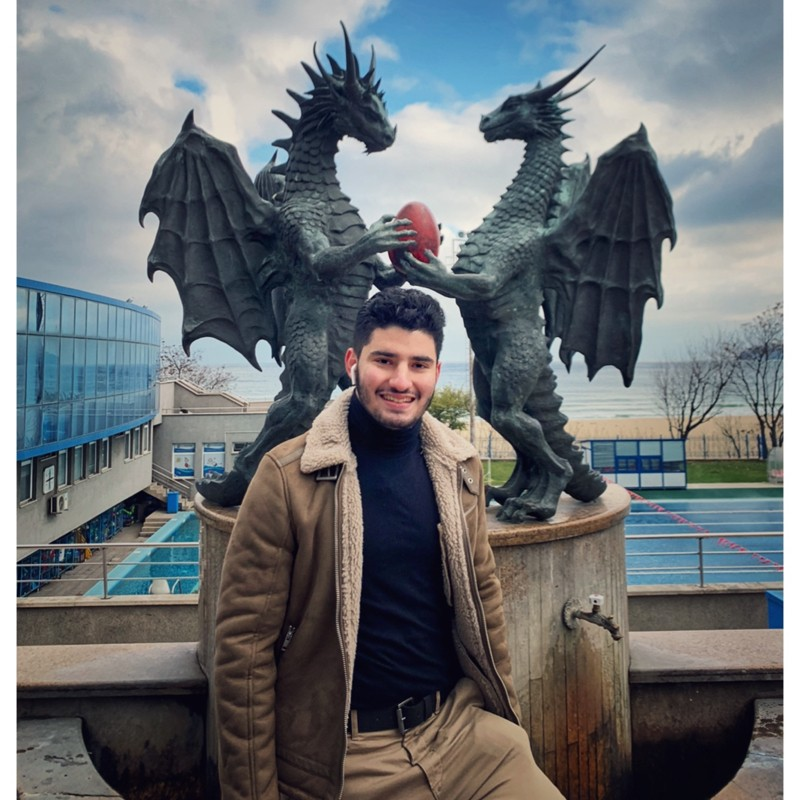
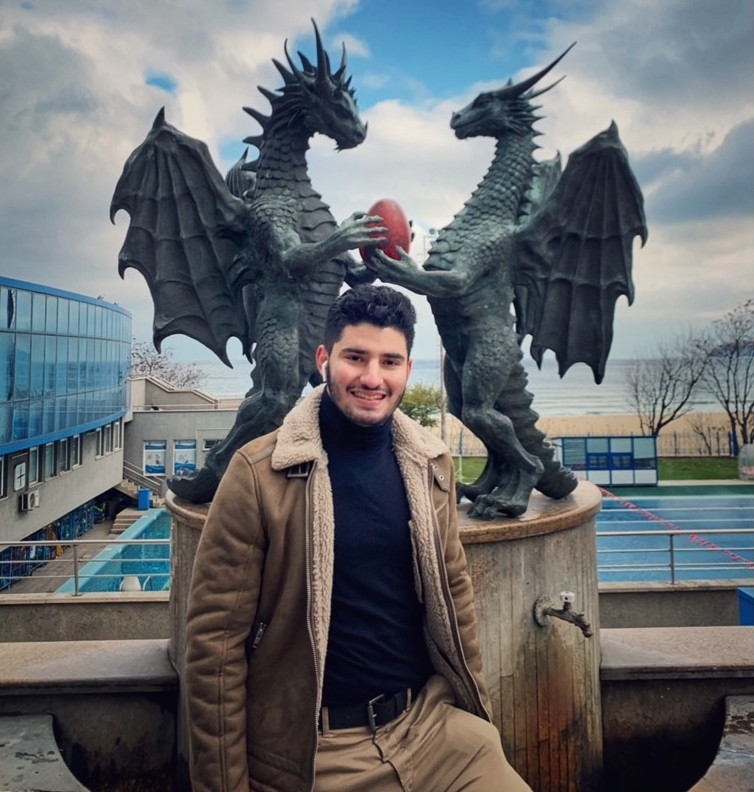
added new image of me, fixed your image to remove the white borders, resized the blitcore_diagram, made some changes in the how blitcore works so that the shapes of each are fixed and not different and centered the title and description in the team section. Not very sure if I messed anything up for 

diff --git a/src/partials/Team.jsx b/src/partials/Team.jsx
@@ -10,13 +10,15 @@ export default function Team() {
 
     <span class="absolute bottom-0 left-0"> </span>
 
-    <div class="relative px-16 mx-auto max-w-7xl">
-        <p class="font-medium tracking-wide text-blue-500 uppercase">OUR TEAM</p>
-        <h2 class="text-blitblue-400 relative max-w-lg mt-5 mb-10 text-xl font-semibold leading-tight lg:text-xl">An incredible team of amazing individuals</h2>
-        <div class="grid w-full grid-cols-1 gap-10 sm:grid-cols-3 lg:grid-cols-3">
+    <div class="relative text-center px-16 mx-auto max-w-7xl">
+        <div className="max-w-1xl mx-auto text-center pb-12 md:pb-16">
+            <h1 class="text-blitblue-400 h2 mt-6 mb-4">OUR TEAM</h1>
+            <p class="font-medium tracking-wide text-white">An incredible team of amazing individuals</p>
+        </div>
+        <div class="grid w-full grid-cols-1 gap-20 sm:grid-cols-3 lg:grid-cols-3">
             <div class="flex flex-col items-center justify-center col-span-1">
-                <div class="relative p-5">
-                    <div class="absolute z-10 w-full h-full -mt-5 -ml-5 rounded-full rounded-tr-none bg-blitblue-400"></div>
+                <div class="relative p-3">
+                    <div class="absolute z-10 w-full h-full -mt-3 -ml-3 rounded-full rounded-tr-none bg-blitblue-400"></div>
                     <img class="relative z-20 w-full rounded-full" src={abass}/>
                 </div>
                 <div class="mt-3 space-y-2 text-center">
@@ -36,8 +38,8 @@ export default function Team() {
             </div>
 
             <div class="flex flex-col items-center justify-center col-span-1">
-                <div class="relative p-5">
-                    <div class="absolute z-10 w-full h-full -mt-5 -ml-5 rounded-full rounded-tr-none bg-blitblue-400"></div>
+                <div class="relative p-3">
+                    <div class="absolute z-10 w-full h-full -mt-3 -ml-3 rounded-full rounded-tr-none bg-blitblue-400"></div>
                     <img class="relative z-20 w-full rounded-full" src={tamer}/>
                 </div>
                 <div class="mt-3 space-y-2 text-center">
@@ -57,8 +59,8 @@ export default function Team() {
             </div>
 
             <div class="flex flex-col items-center justify-center col-span-1">
-                <div class="relative p-5">
-                    <div class="absolute z-10 w-full h-full -mt-5 -ml-5 rounded-full rounded-tr-none bg-blitblue-400"></div>
+                <div class="relative p-3">
+                    <div class="absolute z-10 w-full h-full -mt-3 -ml-3 rounded-full rounded-tr-none bg-blitblue-400"></div>
                     <img class="relative z-20 w-full rounded-full" src="https://cdn.devdojo.com/images/june2021/avt-09.jpg"/>
                 </div>
                 <div class="mt-3 space-y-2 text-center">

diff --git a/src/partials/HeroHome.jsx b/src/partials/HeroHome.jsx
@@ -12,7 +12,7 @@ function HeroHome() {
 
 
       <div className="flex items-center justify-center sm:relative" aria-hidden="true">
-        <img className="invisible sm:visible absolute top-1 w-max" src={blitcoreDiagram} /> 
+        <img className="invisible sm:visible absolute top-12 w-max" src={blitcoreDiagram} /> 
       </div>
 
       <div className="max-w-6xl mx-auto px-4 sm:px-6 ">
@@ -22,7 +22,7 @@ function HeroHome() {
 
           {/* Section header */}
           <div className="text-center pb-12 md:pb-16">
-            <h1 className="text-Bxl lg:text-6xl font-extrabold leading-tighter tracking-tighter lg:text-5xl mb-4 text-center" data-aos="zoom-y-out"><span className="bg-clip-text text-transparent bg-gradient-to-r from-blitblue-500 to-blitblue-400">BlitCore</span></h1>
+            <h1 className="text-Bxl lg:text-5xl font-extrabold leading-tighter tracking-tighter lg:text-5xl mb-4 text-center" data-aos="zoom-y-out"><span className="bg-clip-text text-transparent bg-gradient-to-r from-blitblue-500 to-blitblue-400">BlitCore</span></h1>
             <div className="max-w-3xl mx-auto">
               <p className="text-base text-white mb-8" data-aos="zoom-y-out" data-aos-delay="150">We design, build and Scale Software</p>
               <div className="max-w-xs mx-auto sm:max-w-none sm:flex sm:justify-center" data-aos="zoom-y-out" data-aos-delay="300">

diff --git a/src/partials/FeaturesBlocks.jsx b/src/partials/FeaturesBlocks.jsx
@@ -13,11 +13,11 @@ function FeaturesBlocks() {
           {/* Section header */}
           <div className="max-w-3xl mx-auto text-center pb-12 md:pb-20">
             <h2 className="text-blitblue-400 h2 mb-4">How BlitCore Works</h2>
-            <p className="text-xl text-blittext-100">We Apply Design Thinking and Practical Creativity.</p>
+            <p className="text-blittext-100">We Apply Design Thinking and Practical Creativity.</p>
           </div>
 
           {/* Items */}
-          <div className="max-w-sm mx-auto grid gap-6 md:grid-cols-2 lg:grid-cols-3 items-start md:max-w-2xl lg:max-w-none ">
+          <div className="max-w-sm mx-auto grid gap-10 md:grid-cols-2 lg:grid-cols-3 items-start md:max-w-2xl lg:max-w-none ">
 
             {/* 1st item */}
             <div className="relative flex flex-col items-center p-6 bg-blitblue-400 rounded-large shadow-xl">
